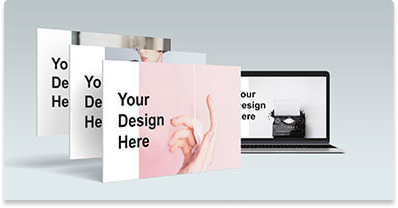
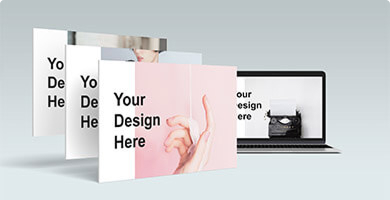
feature: make direcions section and card-filter

diff --git a/css/style.css b/css/style.css
@@ -73,6 +73,13 @@ body {
   color: #1e212c;
 }
 
+.heading--center {
+  color: #1e212c;
+  display: flex;
+  flex-direction: column;
+  align-items: center;
+}
+
 .heading__subtitle {
   font-weight: 700;
   line-height: 150%;
@@ -366,4 +373,143 @@ body {
   line-height: 150%;
   color: #1e212c;
   text-wrap: nowrap;
+}
+
+/* directions------------------------------------------------------------------------------------------ */
+
+.directions__heading--center {
+  margin-bottom: 90px;
+}
+
+.directions__nav {
+  max-width: 767px;
+  display: flex;
+  justify-content: space-between;
+  /* flex-wrap: wrap; */
+  gap: 5px;
+  margin-bottom: 45px;
+}
+
+.directions__nav input {
+  display: none;
+}
+
+.directions__nav-item {
+  border: 1px solid #9a9ca5;
+  border-radius: 4px;
+  padding: 1px 8px;
+  font-weight: 700;
+  font-size: 16px;
+  line-height: 160%;
+  color: #9a9ca5;
+  white-space: nowrap;
+}
+
+.directions__nav input:checked+.directions__nav-item {
+  background: linear-gradient(45deg, #ff3f3a 0%, #f75e05 100%);
+  color: #fff;
+}
+
+.directions__card {
+  display: block;
+  border: 1px solid #e5e8ed;
+  border-radius: 4px;
+  max-width: 390px;
+}
+
+.directions__cards {
+  display: flex;
+  flex-wrap: wrap;
+  gap: 30px;
+}
+
+.directions__img img {
+  border-radius: 4px;
+  object-fit: cover;
+}
+
+.directions__card-content {
+  padding: 24px;
+}
+
+.directions__teg {
+  border-radius: 4px;
+  padding: 1px 8px;
+  font-weight: 700;
+  line-height: 160%;
+  color: #fff;
+  display: inline-block;
+  margin-bottom: 20px;
+}
+
+.directions__card--marketing .directions__teg {
+  background-color: #03cea4;
+}
+
+.directions__card--management .directions__teg {
+  background-color: #5a87fc;
+}
+
+.directions__card--hr .directions__teg {
+  background-color: #f89828;
+}
+
+.directions__card--design .directions__teg {
+  background-color: #f52f6e;
+}
+
+.directions__card--development .directions__teg {
+  background-color: #7772f1;
+}
+
+.directions__text {
+  font-weight: 400;
+  line-height: 160%;
+  color: #787a80;
+  margin-bottom: 20px;
+}
+
+.directions__check {
+  display: inline-block;
+  font-weight: 700;
+  line-height: 160%;
+  color: #1e212c;
+  position: relative;
+}
+
+.directions__check::after {
+  content: "";
+  position: absolute;
+  width: 24px;
+  height: 24px;
+  background-image: url(../images/icons/arrow-right.svg);
+  right: -32px;
+  top: 1px;
+}
+
+.directions__card--empty {
+  border-radius: 4px;
+  width: 390px;
+  height: 420px;
+  background: #f4f5f6;
+  font-weight: 700;
+  font-size: 20px;
+  line-height: 150%;
+  color: #424551;
+  text-align: center;
+  display: flex;
+  justify-content: center;
+  align-items: center;
+}
+
+.directions:has(#marketing:checked) li:not(.directions__card--marketing):not(.directions__card--empty) {
+  display: none;
+}
+
+.directions:has(#management:checked) .directions__card:not(.directions__card--management):not(.directions__card--empty) {
+  display: none;
+}
+
+.directions:has(#hr:checked) .directions__card:not(.directions__card--hr) {
+  display: none;
 }

diff --git a/index.html b/index.html
@@ -140,6 +140,84 @@
         </ul>
       </div>
     </section>
+    <section class="directions">
+      <div class="container directions__inner">
+        <div class="heading--center directions__heading--center">
+          <p class="heading__subtitle">our main directions</p>
+          <h2 class="heading__title">What do we teach</h2>
+        </div>
+        <nav class="directions__nav">
+          <input type="radio" name="category" id="all" value="all" checked>
+          <label class="directions__nav-item" for="all">All</label>
+          <input type="radio" name="category" id="marketing" value="marketing">
+          <label class="directions__nav-item" for="marketing">Marketing</label>
+          <input type="radio" id="management" name="category" value="management">
+          <label class="directions__nav-item" for="management">Management</label>
+          <input type="radio" id="hr" name="category" value="hr">
+          <label class="directions__nav-item" for="hr">HR & Recruting</label>
+          <input type="radio" id="design" name="category" value="design">
+          <label class="directions__nav-item" for="design">Design</label>
+          <input type="radio" id="development" name="category" value="development">
+          <label class="directions__nav-item" for="development">Development</label>
+        </nav>
+        <ul class="directions__cards">
+          <li class="directions__card directions__card--marketing">
+            <a href="#">
+              <div class="directions__img"><img src="images/directions/1.jpg" alt=""></div>
+              <div class="directions__card-content">
+                <div class="directions__teg">Marketing</div>
+                <p class="directions__text">Odio posuere netus quisque faucibus lectus arcu donec. Eget dictum eu
+                  viverra
+                  faucibus. Viverra scelerisque consequat.</p>
+                <div class="directions__check">Check courses</div>
+              </div>
+            </a></li>
+          <li class="directions__card directions__card--management"><a href="#">
+              <div class="directions__img"><img src="images/directions/2.jpg" alt=""></div>
+              <div class="directions__card-content">
+                <div class="directions__teg">Management</div>
+                <p class="directions__text">Odio posuere netus quisque faucibus lectus arcu donec. Eget dictum eu
+                  viverra
+                  faucibus. Viverra scelerisque consequat.</p>
+                <div class="directions__check">Check courses</div>
+              </div>
+            </a></li>
+          <li class="directions__card directions__card--hr"><a href="#">
+              <div class="directions__img"><img src="images/directions/3.jpg" alt=""></div>
+              <div class="directions__card-content">
+                <div class="directions__teg">HR & Recruting</div>
+                <p class="directions__text">Odio posuere netus quisque faucibus lectus arcu donec. Eget dictum eu
+                  viverra
+                  faucibus. Viverra scelerisque consequat.</p>
+                <div class="directions__check">Check courses</div>
+              </div>
+            </a></li>
+          <li class="directions__card directions__card--design"><a href="#">
+              <div class="directions__img"><img src="images/directions/4.jpg" alt=""></div>
+              <div class="directions__card-content">
+                <div class="directions__teg">Design</div>
+                <p class="directions__text">Odio posuere netus quisque faucibus lectus arcu donec. Eget dictum eu
+                  viverra
+                  faucibus. Viverra scelerisque consequat.</p>
+                <div class="directions__check">Check courses</div>
+              </div>
+            </a></li>
+          <li class="directions__card directions__card--development"><a href="#">
+              <div class="directions__img"><img src="images/directions/5.jpg" alt=""></div>
+              <div class="directions__card-content">
+                <div class="directions__teg">Development</div>
+                <p class="directions__text">Odio posuere netus quisque faucibus lectus arcu donec. Eget dictum eu
+                  viverra
+                  faucibus. Viverra scelerisque consequat.</p>
+                <div class="directions__check">Check courses</div>
+              </div>
+            </a></li>
+          <li class="directions__card directions__card--empty">
+            <p>New studying program</br> coming soon...</p>
+          </li>
+        </ul>
+      </div>
+    </section>
   </main>
 
 